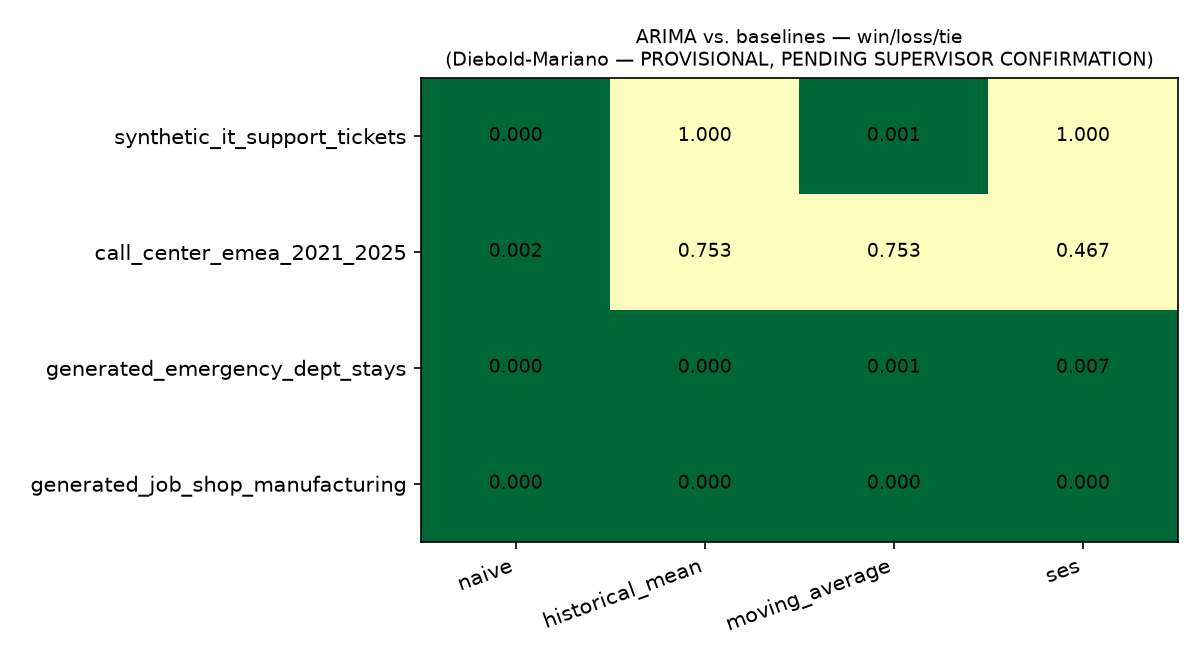
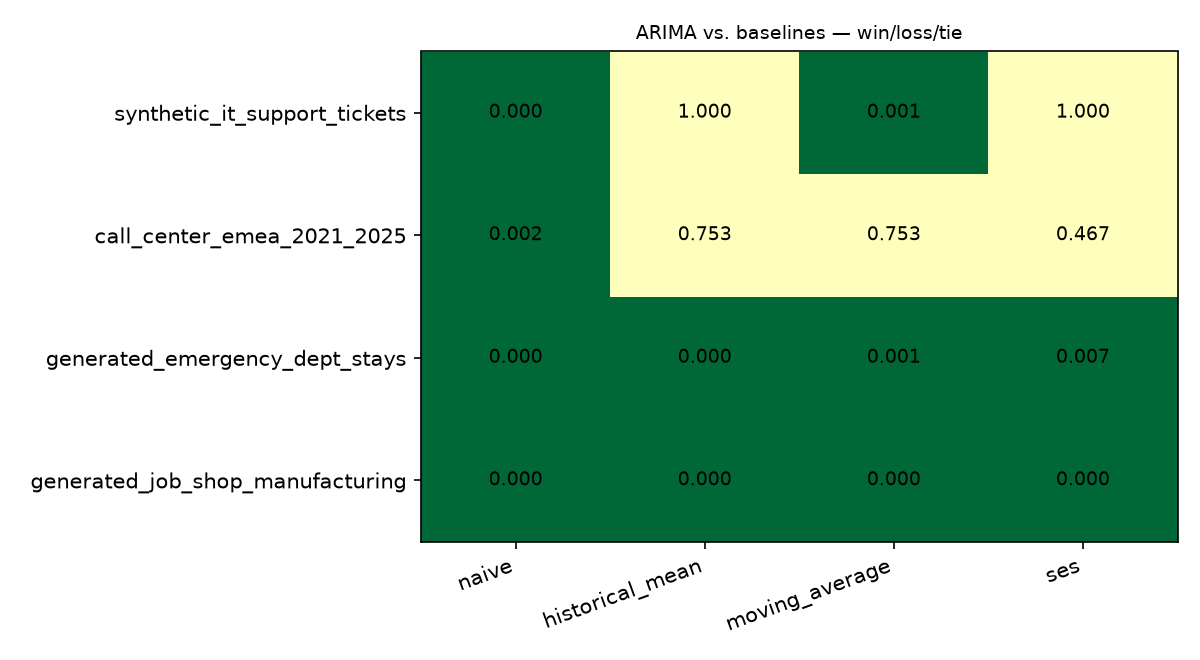
Update supervisor confirmations

diff --git a/src/evaluate_model.py b/src/evaluate_model.py
@@ -2,14 +2,11 @@
 Model evaluation (metrics & benchmarks) — see spec/model-evaluation.md and
 spec/model-evaluation-parameters.md.
 
-*** Diebold-Mariano — PROVISIONAL, PENDING SUPERVISOR CONFIRMATION. ***
-CLAUDE.md flags DM as "NOT confirmed by supervisor — do not implement as
-final methodology without confirmation." This stage uses it anyway, on
-the student's explicit instruction, after a diagnostic (Ljung-Box on all
-16 dataset/baseline loss-differential series) found real serial
+Uses Diebold-Mariano (confirmed by supervisor as final methodology,
+superseding the original Wilcoxon plan), after a diagnostic (Ljung-Box on
+all 16 dataset/baseline loss-differential series) found real serial
 autocorrelation in 5 pairs — exactly what DM's HAC variance estimator is
-designed to correct for and a plain paired test (Wilcoxon, this stage's
-original plan) cannot. Every report/output states this plainly. See
+designed to correct for and a plain paired test (Wilcoxon) cannot. See
 spec/model-evaluation.md's Status note.
 
 Reads ONLY the already-persisted per-point forecasts from
@@ -63,7 +60,6 @@ BASELINE_METHODS = ["naive", "historical_mean", "moving_average", "ses"]
 ALPHA = 0.05
 MAPE_ZERO_EPS = 1e-9
 LJUNG_BOX_LAGS = [1, 5, 7]
-DM_LABEL = "Diebold-Mariano — PROVISIONAL, PENDING SUPERVISOR CONFIRMATION"
 
 ARIMA_DIR = Path("reports/arima")
 BASELINES_DIR = Path("reports/baselines")
@@ -189,7 +185,7 @@ def evaluate_dataset(name: str, arima_df: pd.DataFrame, base_df: pd.DataFrame) -
 
 def write_report(result: dict) -> None:
     name = result["name"]
-    lines = [f"MODEL EVALUATION — {name}", "=" * 60, f"*** {DM_LABEL} ***", ""]
+    lines = [f"MODEL EVALUATION — {name}"]
     lines.append(f"n_test: {result['n_test']}")
     lines.append("data sources: reports/arima/%s_arima_forecasts.csv, "
                  "reports/baselines/%s_baselines_forecasts.csv (read-only, not refit)" % (name, name))
@@ -219,7 +215,6 @@ def write_report(result: dict) -> None:
         lines.append(f"    vs {method:16s}: [{p_str}]  -> {flag}")
     lines.append("")
 
-    lines.append(f"[3] {DM_LABEL}")
     for method in BASELINE_METHODS:
         dm = result["pair_results"][method]["dm"]
         p_holm = result["holm_map"].get(method)
@@ -262,7 +257,7 @@ def plot_heatmap(results: list[dict]) -> None:
     ax.set_xticklabels(BASELINE_METHODS, rotation=20, ha="right")
     ax.set_yticks(range(len(names)))
     ax.set_yticklabels(names)
-    ax.set_title(f"ARIMA vs. baselines — win/loss/tie\n({DM_LABEL})", fontsize=9)
+    ax.set_title(f"ARIMA vs. baselines — win/loss/tie", fontsize=9)
     fig.tight_layout()
     OUT_DIR.mkdir(parents=True, exist_ok=True)
     fig.savefig(OUT_DIR / "evaluation_win_loss_heatmap.png", dpi=150)
@@ -270,7 +265,7 @@ def plot_heatmap(results: list[dict]) -> None:
 
 
 def write_cross_domain_summary(results: list[dict], skipped: list[tuple[str, str]]) -> None:
-    lines = ["MODEL EVALUATION CROSS-DOMAIN SUMMARY", "=" * 60, f"*** {DM_LABEL} ***", ""]
+    lines = ["MODEL EVALUATION CROSS-DOMAIN SUMMARY"]
     rows = []
     for r in results:
         wins = sum(1 for v in r["verdicts"].values() if v == "arima_wins")
@@ -319,7 +314,6 @@ def main(argv: list[str]) -> int:
         plot_heatmap(results)
         print(f"win/loss heatmap written to {OUT_DIR}/evaluation_win_loss_heatmap.png")
     print(f"\ncross-domain summary written to {OUT_DIR}/evaluation_cross_domain_summary.txt")
-    print(f"\n*** {DM_LABEL} ***")
     return 0
 
 

diff --git a/spec/model-evaluation.md b/spec/model-evaluation.md
@@ -11,18 +11,15 @@ than raw numbers alone.
 
 **Status note (supersedes the original Wilcoxon plan below where they
 conflict):** this stage was originally specced around a Wilcoxon
-signed-rank test, because `CLAUDE.md` flags Diebold–Mariano as "NOT
+signed-rank test, because `CLAUDE.md` flagged Diebold–Mariano as "NOT
 confirmed by supervisor — do not implement as final methodology without
 confirmation." A diagnostic run (Ljung-Box on the loss-differential series
 for all 16 dataset/baseline pairs) found 5 pairs with statistically
 significant serial autocorrelation — exactly what Wilcoxon cannot correct
 for and what DM's HAC variance estimator exists to handle. On the
-student's explicit instruction, this stage now uses DM instead, **while
-supervisor confirmation is still pending** (message sent, not yet
-answered as of this spec revision). Every report and output this stage
-produces must say "provisional pending supervisor confirmation" — this
-spec does not resolve or silently drop that caveat, and `CLAUDE.md`'s own
-"not confirmed" line is deliberately left unedited.
+student's explicit instruction, this stage moved to DM instead; the
+supervisor has since confirmed DM as the final methodology, and
+`CLAUDE.md` has been updated accordingly.
 
 ## WHAT
 
@@ -69,9 +66,9 @@ output in **both** `reports/arima/<name>_arima_forecasts.csv` and
   loss-differential series) found real serial autocorrelation in 5 pairs —
   the exact condition DM's HAC variance estimator exists to handle, and
   which a plain paired test (the originally-specced Wilcoxon) cannot
-  correct for. That finding is the working justification for using DM now
-  rather than waiting; supervisor confirmation has been requested but not
-  yet received (see Status note above).
+  correct for. That finding was the working justification for adopting DM,
+  since confirmed by the supervisor as final methodology (see Status note
+  above).
 - **RQ2** needs, per dataset, not just "ARIMA's MAPE was higher/lower" but
   a real handle on *how much of that difference is signal vs. noise* —
   the win/loss/tie classification is what lets the later "analyse and
@@ -82,7 +79,7 @@ output in **both** `reports/arima/<name>_arima_forecasts.csv` and
 
 | Decision | Options considered | Choice | Why |
 |---|---|---|---|
-| Significance test | Wilcoxon signed-rank (original spec) vs. paired t-test vs. Diebold–Mariano | **Diebold–Mariano** (mean loss differential, HAC/Newey–West standard error) | Superseded from Wilcoxon after the Ljung-Box diagnostic confirmed real serial autocorrelation in 5/16 loss-differential series — DM's HAC correction is designed for exactly that. Still provisional pending supervisor confirmation (see Status note); implemented on the student's explicit instruction, not a unilateral substitution. |
+| Significance test | Wilcoxon signed-rank (original spec) vs. paired t-test vs. Diebold–Mariano | **Diebold–Mariano** (mean loss differential, HAC/Newey–West standard error) | Superseded from Wilcoxon after the Ljung-Box diagnostic confirmed real serial autocorrelation in 5/16 loss-differential series — DM's HAC correction is designed for exactly that. Confirmed by the supervisor as final methodology (see Status note). |
 | DM implementation | Third-party `dm_test` package (adds a new dependency) vs. hand-rolled formula vs. OLS-on-constant with `cov_type="HAC"` | **OLS-on-constant with HAC covariance** (`statsmodels.api.OLS(d_t, const).fit(cov_type="HAC", cov_kwds={"maxlags": L})`) | Mathematically identical to the standard DM statistic (testing whether the mean of `d_t` is zero, with an autocorrelation-robust variance) but uses only `statsmodels`, already a project dependency — no new package to vet or justify. |
 | HAC lag length `L` | Classical forecast-horizon rule (`L = h-1 = 0` for 1-step-ahead forecasts) vs. Newey–West automatic bandwidth selection | **Newey–West automatic bandwidth**, `L = floor(4*(n/100)^(2/9))` | The classical `h-1` rule assumes autocorrelation arises only from multi-step-forecast overlap, which doesn't apply here (`h=1`). The autocorrelation this stage actually observed comes from baseline model misspecification (e.g. historical-mean's slow-moving error), not forecast-horizon theory — an automatic, data-driven bandwidth is the honest choice given that mismatch, not the textbook default for a different situation. |
 | Loss function tested | Absolute error (aligns with MAE) vs. squared error (aligns with RMSE) vs. both | **Absolute error only** | Testing both would triple the test count (48 instead of 16) for a single stage without a corresponding request to report RMSE-specific significance. MAE is RQ1's first-listed metric; RMSE and MAPE are still reported descriptively per pair, just not separately significance-tested. Documented as a scope limit, not hidden. |
@@ -107,10 +104,6 @@ output in **both** `reports/arima/<name>_arima_forecasts.csv` and
   HAC (Newey–West) covariance on `|baseline_error| - |arima_error|` per
   test point, per baseline, per dataset (exact call in
   `model-evaluation-parameters.md`).
-- Every report and output this stage produces states, verbatim,
-  "Diebold–Mariano — provisional pending supervisor confirmation" — this
-  is a hard requirement, not a suggestion, given `CLAUDE.md`'s unresolved
-  caveat.
 - Correction: Holm–Bonferroni, applied within each dataset's 4-test family
   independently (not pooled across datasets).
 - α = 0.05 for both the raw and Holm-adjusted significance threshold
@@ -118,9 +111,6 @@ output in **both** `reports/arima/<name>_arima_forecasts.csv` and
 - Ljung-Box (on `d_t`) is computed and reported for all 16 pairs, not only
   as a one-off diagnostic — it's the standing evidence for why HAC
   correction is warranted per pair.
-- `CLAUDE.md`'s "Diebold–Mariano... NOT confirmed by supervisor" line is
-  not edited by this stage — it stays accurate until confirmation actually
-  arrives.
 - Output under `reports/evaluation/`, never into `reports/`,
   `reports/eda/`, `reports/baselines/`, or `reports/arima/`.
 - Purely additive — does not modify `data_quality.py`, `eda.py`,
@@ -129,13 +119,6 @@ output in **both** `reports/arima/<name>_arima_forecasts.csv` and
 
 ## RISKS
 
-- **This stage's DM-based verdicts are provisional and could be
-  retracted or revised.** Supervisor confirmation has been requested but
-  not received. If the supervisor declines DM, requires a different HAC
-  lag rule, or wants a different loss function, every win/loss verdict in
-  this stage may need re-deriving. This is the central risk of proceeding
-  now rather than waiting — stated plainly, not softened, per every
-  report carrying the "provisional" label.
 - **HAC lag-length choice affects the p-value.** The Newey–West automatic
   bandwidth is a defensible default, not the only reasonable one; a
   different `L` could shift a borderline pair (e.g. anything landing near
@@ -176,9 +159,8 @@ output in **both** `reports/arima/<name>_arima_forecasts.csv` and
 - Per-dataset report (`reports/evaluation/<name>_evaluation.txt`) shows:
   MAE/RMSE/MAPE for ARIMA and all four baselines side by side; for each of
   the four ARIMA-vs-baseline pairs, the Ljung-Box result on `d_t`, the raw
-  DM p-value, the Holm-adjusted p-value, and the win/loss/tie verdict; the
-  "provisional pending supervisor confirmation" label; and the
-  job-shop-naïve/SES-identical-test note where applicable.
+  DM p-value, the Holm-adjusted p-value, and the win/loss/tie verdict; and
+  the job-shop-naïve/SES-identical-test note where applicable.
 - `reports/evaluation/evaluation_cross_domain_summary.txt` tabulates, per
   dataset, counts of ARIMA wins / baseline wins / ties across the four
   baseline comparisons.
@@ -189,8 +171,8 @@ output in **both** `reports/arima/<name>_arima_forecasts.csv` and
   inputs, so exact reproducibility is expected and must be verified, not
   merely assumed).
 - Every design decision above (loss function choice, HAC lag rule,
-  correction method, "beats" definition, provisional DM status) is stated
-  in the per-dataset report text itself, not only implied by the numbers.
+  correction method, "beats" definition) is stated in the per-dataset
+  report text itself, not only implied by the numbers.
 
 ## TASKS
 
@@ -211,9 +193,6 @@ output in **both** `reports/arima/<name>_arima_forecasts.csv` and
 - Wilcoxon signed-rank testing (the originally-specced approach,
   superseded — see Status note. Could still be reported as a secondary
   cross-check if wanted later, but is not part of this revision's scope).
-- Editing `CLAUDE.md`'s "not confirmed by supervisor" line — stays as-is
-  until confirmation actually arrives, regardless of what this stage
-  implements in the meantime.
 - Significance testing on RMSE (squared-error loss) or MAPE — only the
   MAE-aligned absolute-error differential is tested; RMSE/MAPE are
   reported descriptively per pair.

diff --git a/spec/results-analysis.md b/spec/results-analysis.md
@@ -22,9 +22,8 @@ already exists, not new computation.
 2. **Narrative document** (`reports/analysis/rq1_rq2_analysis.md`),
    structured as:
    - **RQ1 verdict** — does ARIMA beat each baseline, per dataset and
-     overall, quoting `evaluate_model.py`'s DM results verbatim
-     (including the "provisional pending supervisor confirmation" status
-     — this document does not resolve or soften that caveat).
+     overall, quoting `evaluate_model.py`'s DM results verbatim (DM is
+     confirmed by the supervisor as final methodology).
    - **RQ2: cross-domain performance variation** — connects EDA's
      temporal-property diagnostics (stationarity, seasonality strength,
      dominant lags) to the pattern already visible in three independent
@@ -38,8 +37,8 @@ already exists, not new computation.
      evidence (no MRO dataset was tested — `CLAUDE.md`: "Aviation MRO is
      motivating background only").
    - **Limitations** — explicitly restates every unresolved caveat
-     already on record (DM provisional status, MAE-only significance
-     testing, per-dataset-not-global correction, `call_center_emea_2021_2025`'s
+     already on record (MAE-only significance testing,
+     per-dataset-not-global correction, `call_center_emea_2021_2025`'s
      low test-set power, plain-ARIMA-only scope, the pending
      generated-vs-real dataset question) rather than letting them get
      lost by the time conclusions are drawn.
@@ -78,9 +77,6 @@ already exists, not new computation.
   spec, or `ground_truth.json`.
 - Every claim in the narrative document must trace to a specific existing
   report/number (spot-checkable) — no unsupported assertions.
-- The DM "provisional pending supervisor confirmation" status must be
-  stated plainly wherever RQ1's verdict is discussed — this stage does
-  not upgrade DM's status on its own authority.
 - The aviation-MRO section stays strictly evidence-grounded to the four
   tested domains — no fabricated or assumed MRO-specific data.
 - Output under `reports/analysis/`, never into any prior stage's report
@@ -93,10 +89,6 @@ already exists, not new computation.
   loudly (raise, not silently produce blanks/NaNs) on a missing expected
   key, so drift is caught immediately rather than propagating into the
   narrative document unnoticed.
-- **RQ1's verdict is provisional, not final.** If the supervisor declines
-  DM or requires a different methodology, this document's RQ1 section
-  may need rewriting. Stated plainly at the top of the narrative document,
-  not buried in the limitations section alone.
 - **Ties are not evidence of equivalence.** `no_significant_difference`
   (especially on `call_center_emea_2021_2025`'s 53-point test set) means
   "not detected as different," not "proven equal" — the narrative
@@ -122,10 +114,10 @@ already exists, not new computation.
   column populated from a named source file, no blanks.
 - Re-running `src/analyse_results.py` reproduces identical output
   (deterministic — it only reads existing files).
-- `reports/analysis/rq1_rq2_analysis.md` directly answers RQ1 (with the
-  DM-provisional caveat stated up front) and RQ2 (domain-variation
-  pattern, the underperforming domain(s) named explicitly, and the
-  aviation-MRO workforce-planning implication grounded in that evidence).
+- `reports/analysis/rq1_rq2_analysis.md` directly answers RQ1 and RQ2
+  (domain-variation pattern, the underperforming domain(s) named
+  explicitly, and the aviation-MRO workforce-planning implication
+  grounded in that evidence).
 - Every numeric claim in the narrative document is traceable to a named
   source report (T5's spot-check must pass).
 - Limitations section explicitly lists all five items named in WHAT.
@@ -146,8 +138,6 @@ already exists, not new computation.
 
 - Any new statistical computation, metric, or significance test beyond
   what the four prior stages already produced.
-- Resolving DM's provisional status — still pending supervisor
-  confirmation, unaffected by this stage.
 - Resolving the generated-vs-real dataset question — still pending
   supervisor input.
 - A full literature review or discussion beyond what the four tested

diff --git a/reports/analysis/rq1_rq2_analysis.md b/reports/analysis/rq1_rq2_analysis.md
@@ -5,16 +5,6 @@ Synthesizes `reports/eda/`, `reports/baselines/`, `reports/arima/`, and
 into direct answers to RQ1 and RQ2. No new statistic is computed here —
 every number below is cited from an existing report.
 
-## Status banner
-
-**The significance testing behind RQ1's verdict (Diebold–Mariano) is
-provisional, pending supervisor confirmation** (`CLAUDE.md`: "NOT
-confirmed by supervisor — do not implement as final methodology without
-confirmation"; confirmation has been requested, not yet received). Every
-win/loss/tie claim below inherits that caveat. If DM is not confirmed, or
-a different methodology is required, this section's verdicts may need
-re-deriving.
-
 ## RQ1 verdict
 
 > *"Is the prediction of the task duration made using an ARIMA model more
@@ -137,9 +127,6 @@ that ARIMA is unsuitable for MRO scheduling as a whole.
 
 ## Limitations
 
-- **Diebold–Mariano is provisional, pending supervisor confirmation** —
-  restated from the Status banner because it is the single most
-  consequential open item behind every claim in this document.
 - **Only MAE-based significance was tested.** RMSE/MAPE are reported
   descriptively per pair but were not independently significance-tested
   (`spec/model-evaluation.md`'s scope decision) — a dataset could in

diff --git a/spec/model-evaluation-parameters.md b/spec/model-evaluation-parameters.md
@@ -25,9 +25,9 @@ truncated to the intersection, not silently joined on position.
 
 ## Loss differential, autocorrelation diagnostic, and significance test
 
-**Status: Diebold–Mariano, provisional pending supervisor confirmation**
+**Status: Diebold–Mariano, confirmed by supervisor as final methodology**
 (supersedes the original Wilcoxon plan — see `model-evaluation.md`'s
-Status note). Every report this stage writes must state this plainly.
+Status note).
 
 - Per baseline, per test point: `d_t = |baseline_error_t| - |arima_error_t|`
   (paired absolute-error differential — positive means ARIMA's absolute
@@ -87,8 +87,7 @@ loss-function scope).
 
 - `reports/evaluation/<name>_evaluation.txt` — per-dataset MAE/RMSE/MAPE
   table (ARIMA + 4 baselines), Ljung-Box diagnostic, raw/Holm-adjusted DM
-  p-values and verdict per baseline pair, "provisional pending supervisor
-  confirmation" label.
+  p-values and verdict per baseline pair.
 - `reports/evaluation/evaluation_cross_domain_summary.txt` — one row per
   evaluated dataset: counts of `arima_wins` / `baseline_wins` /
   `no_significant_difference` across its 4 pairs.

diff --git a/spec/cross-domain-eda.md b/spec/cross-domain-eda.md
@@ -177,5 +177,5 @@ stage.
 - Written dissertation-text interpretation of the cross-domain findings —
   this stage produces reproducible artifacts (reports, tables, plots);
   prose interpretation is the student's write-up, not pipeline code.
-- Diebold–Mariano or any inter-model significance testing (already
-  deferred pending supervisor confirmation per `CLAUDE.md`).
+- Diebold–Mariano or any inter-model significance testing (deferred to
+  the later model-evaluation stage per `CLAUDE.md`).

diff --git a/CLAUDE.md b/CLAUDE.md
@@ -64,5 +64,5 @@ the repo are screening candidates, not part of the final four.
  
 - Baselines: naïve, historical mean, moving average, exponential smoothing
 - Metrics: MAE, RMSE, MAPE + significance testing
-- Diebold–Mariano test: NOT confirmed by supervisor — do not implement as
-  final methodology without confirmation
+- Diebold–Mariano test: confirmed by supervisor as final significance-test
+  methodology (supersedes the original Wilcoxon plan)
